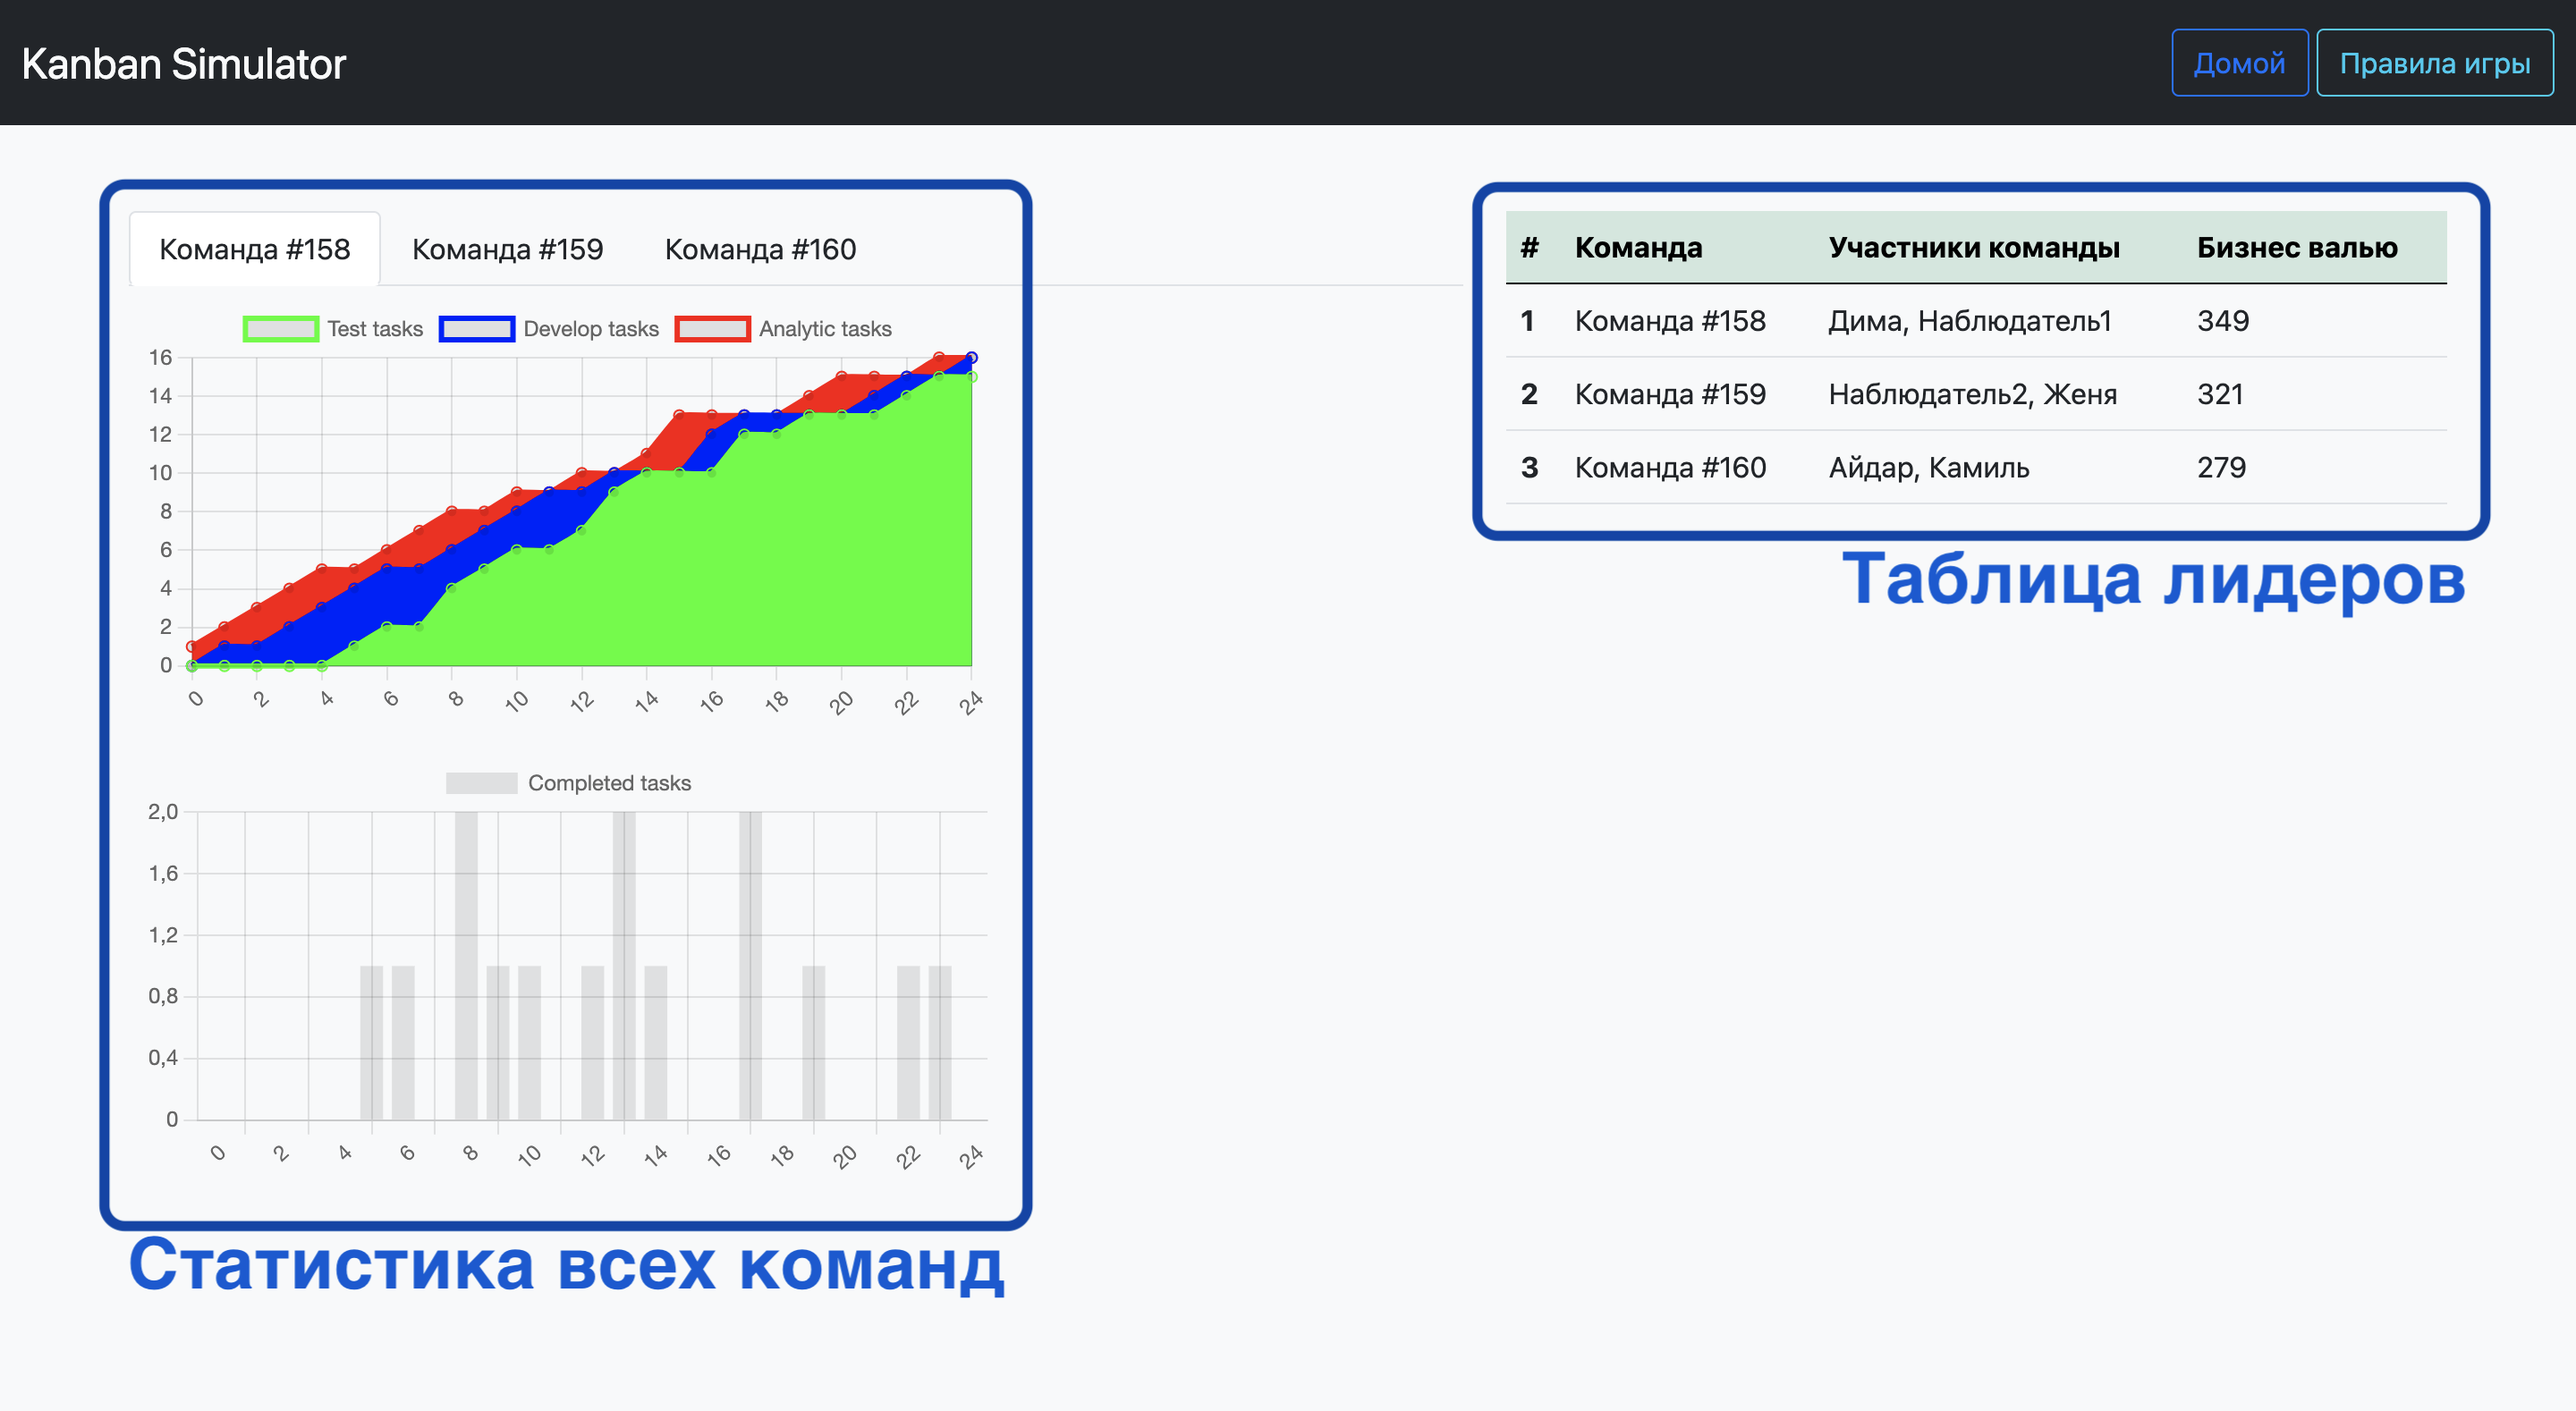
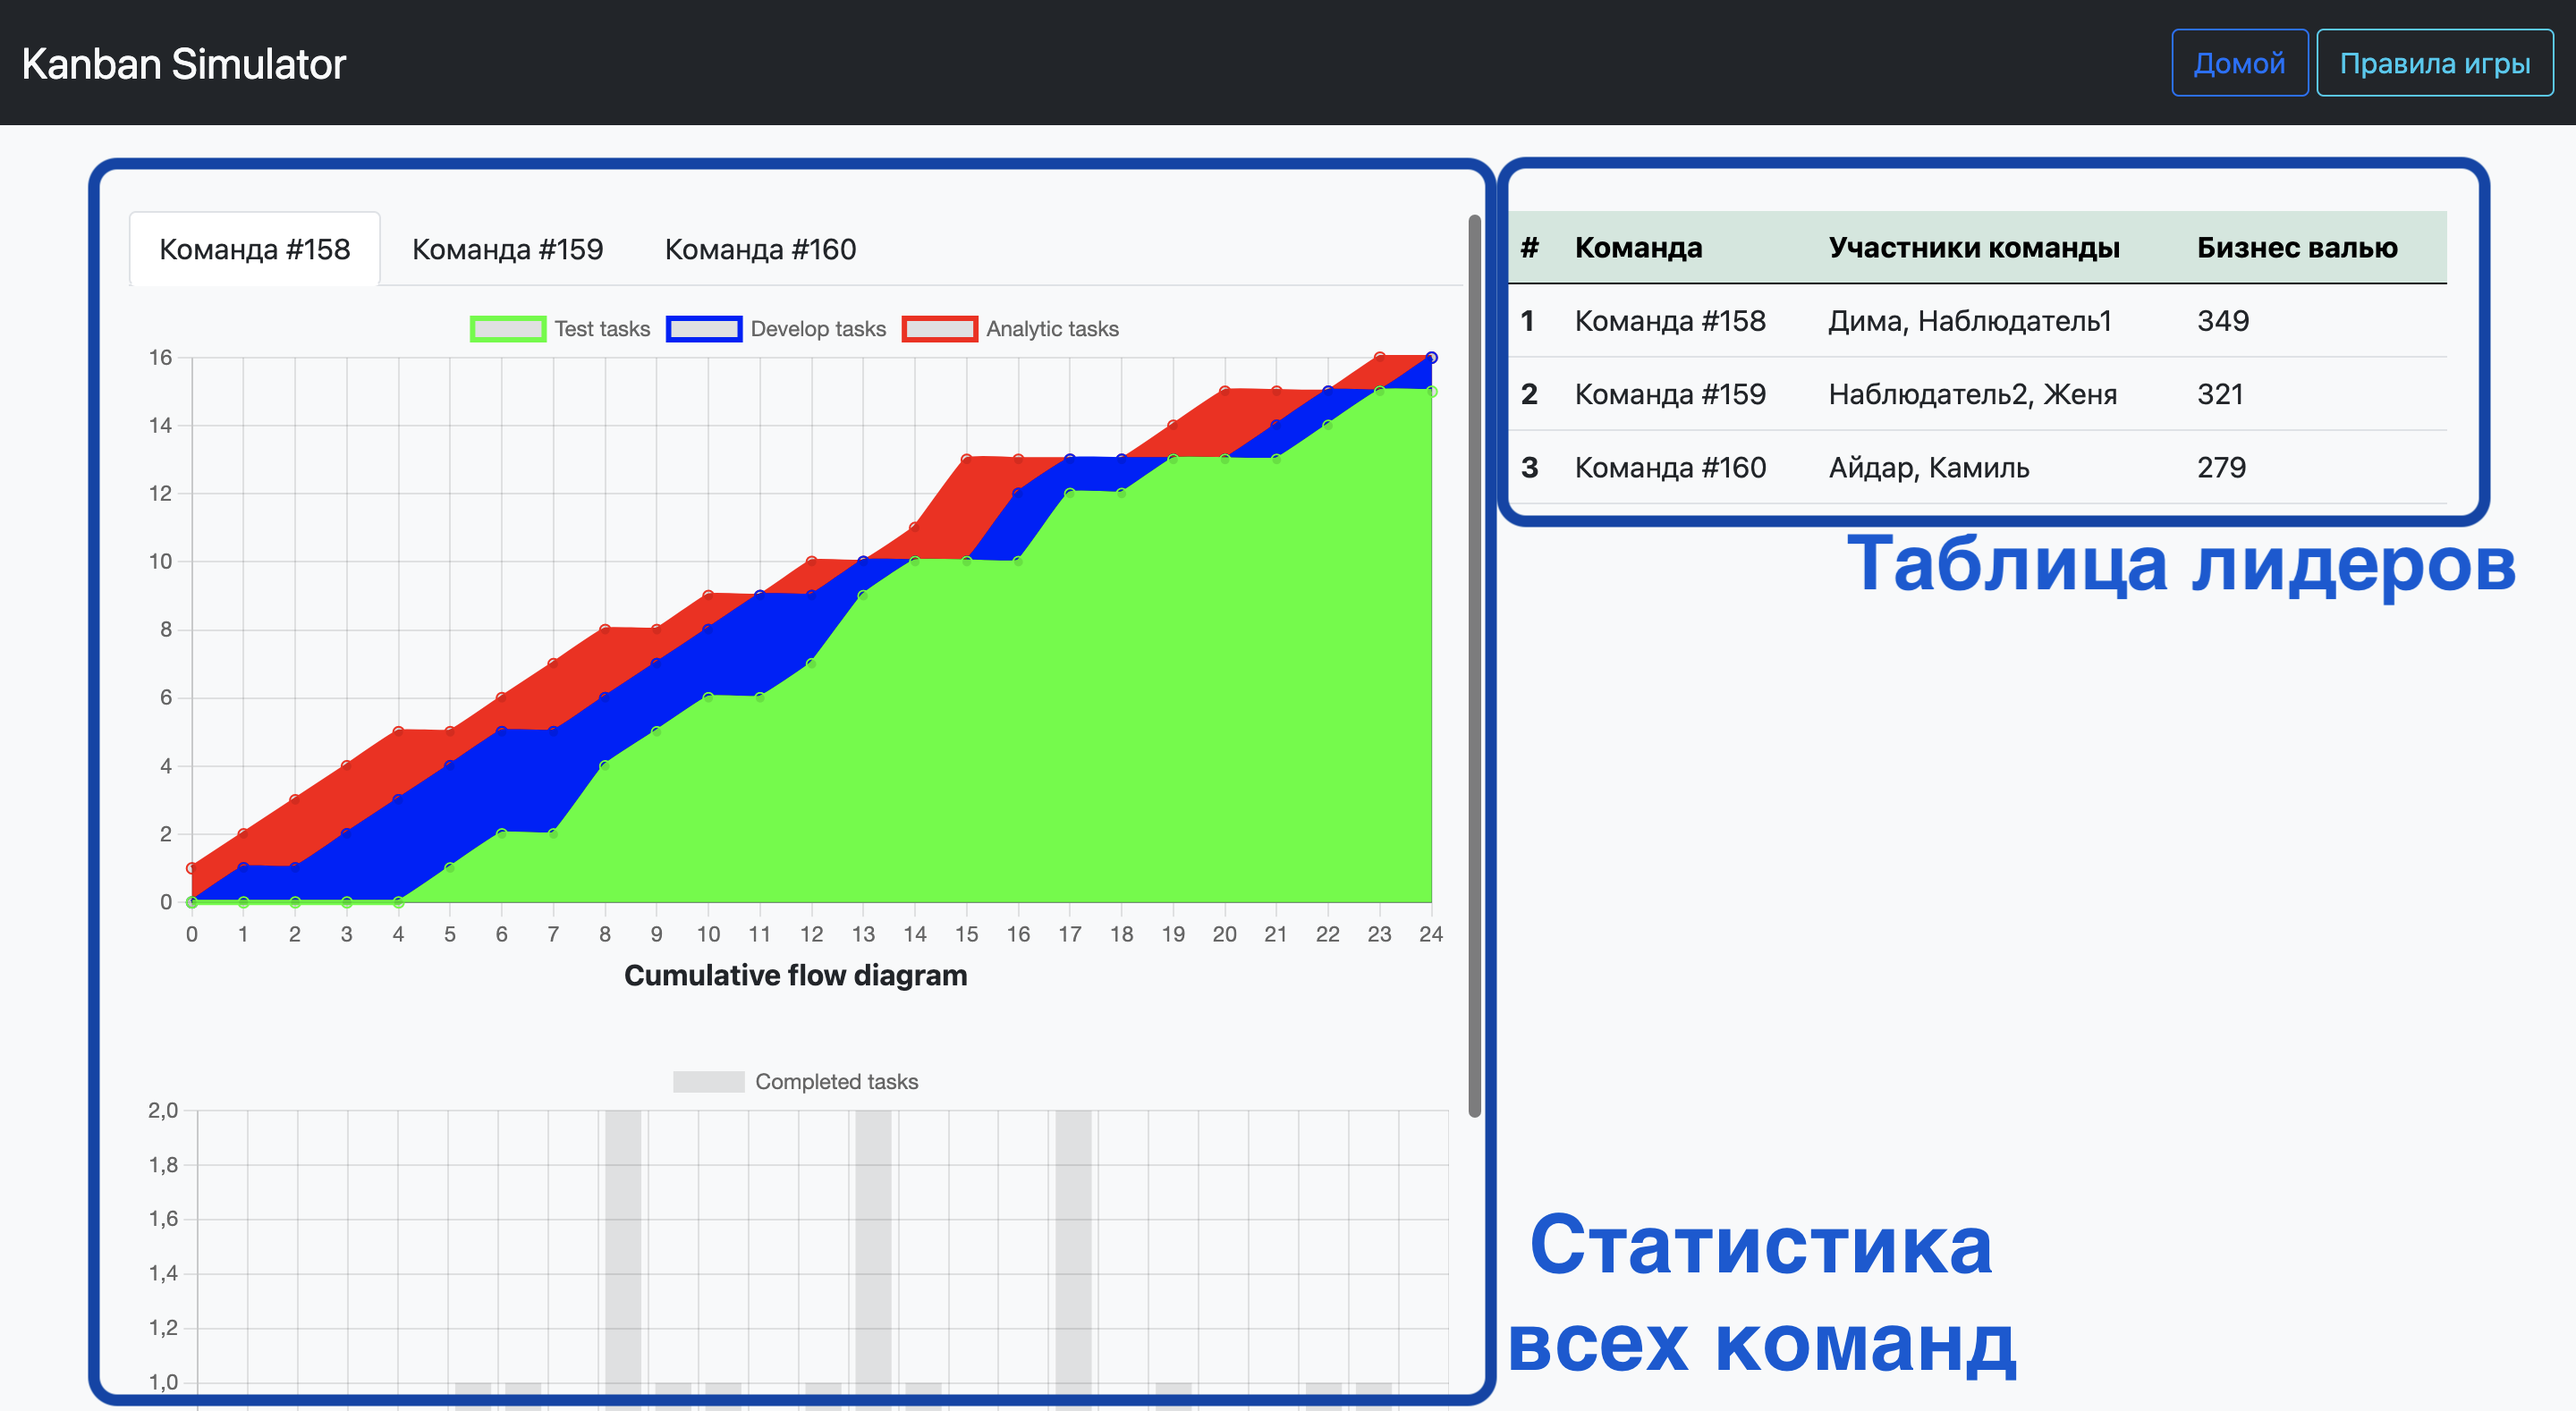
super puper mega extra update

Changed region(s): [[0.0312, 0.0932, 0.9688, 1.0]]

diff --git a/kanban_simulator/board/templates/board/finish.html b/kanban_simulator/board/templates/board/finish.html
@@ -199,25 +199,24 @@
     </header>
 </div>
 
-<div class="container pt-5 overflow-auto" id="fin">
-    <div class="row">
-        <div class="col-7 text-center fw-bold">
-            <ul class="nav nav-tabs" id="team_tabs"></ul>
+<div class="container pt-5 overflow-auto d-flex flex-column" id="fin">
+    <div class="row flex-fill d-flex h-100 justify-content-start">
+        <div class="col-7 text-center fw-bold h-100 justify-content-start overflow-auto">
+            <ul class="nav nav-tabs bg-light sticky-top" id="team_tabs"></ul>
 
             <div class="row p-2">
-                <div class="mx-auto" id="plot">
+                <div class="mx-auto">
                     <canvas id="firstChart"></canvas>
                 </div>
                 <p>Cumulative flow diagram</p>
             </div>
 
             <div class="row p-2">
-                <div class="mx-auto" id="plot">
+                <div class="mx-auto">
                     <canvas id="secondChart"></canvas>
                 </div>
                 <p>Lead Time Distribution</p>
             </div>
-
 
         </div>
 
